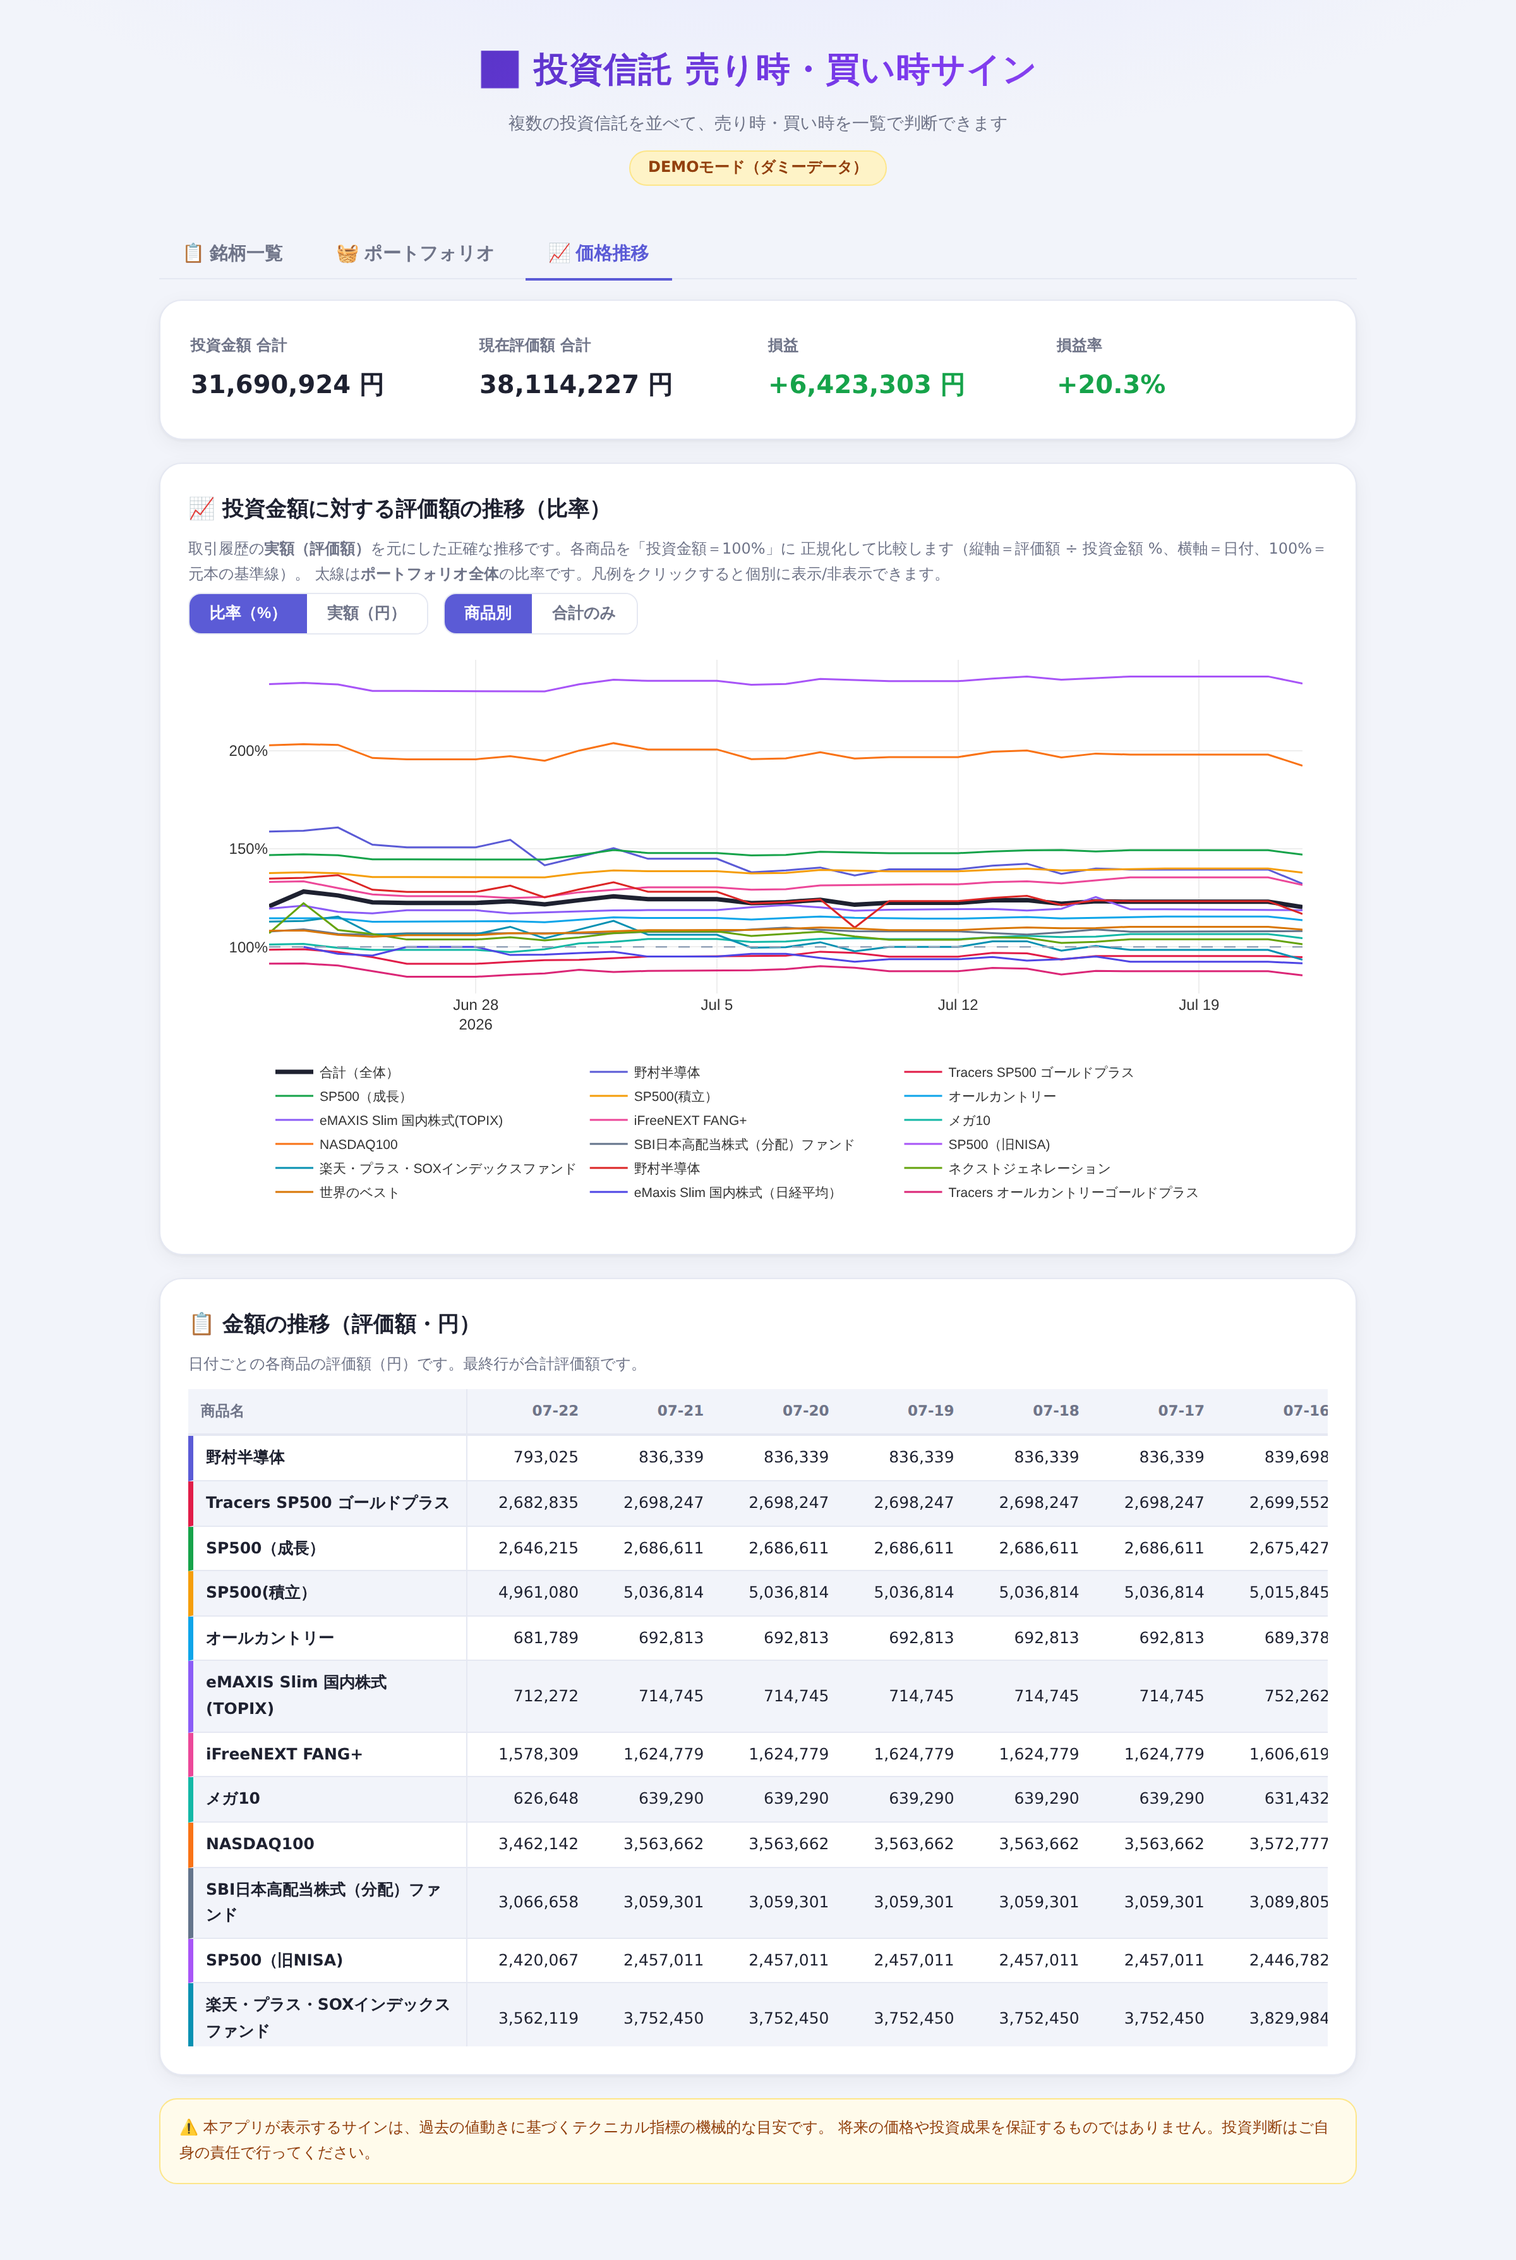
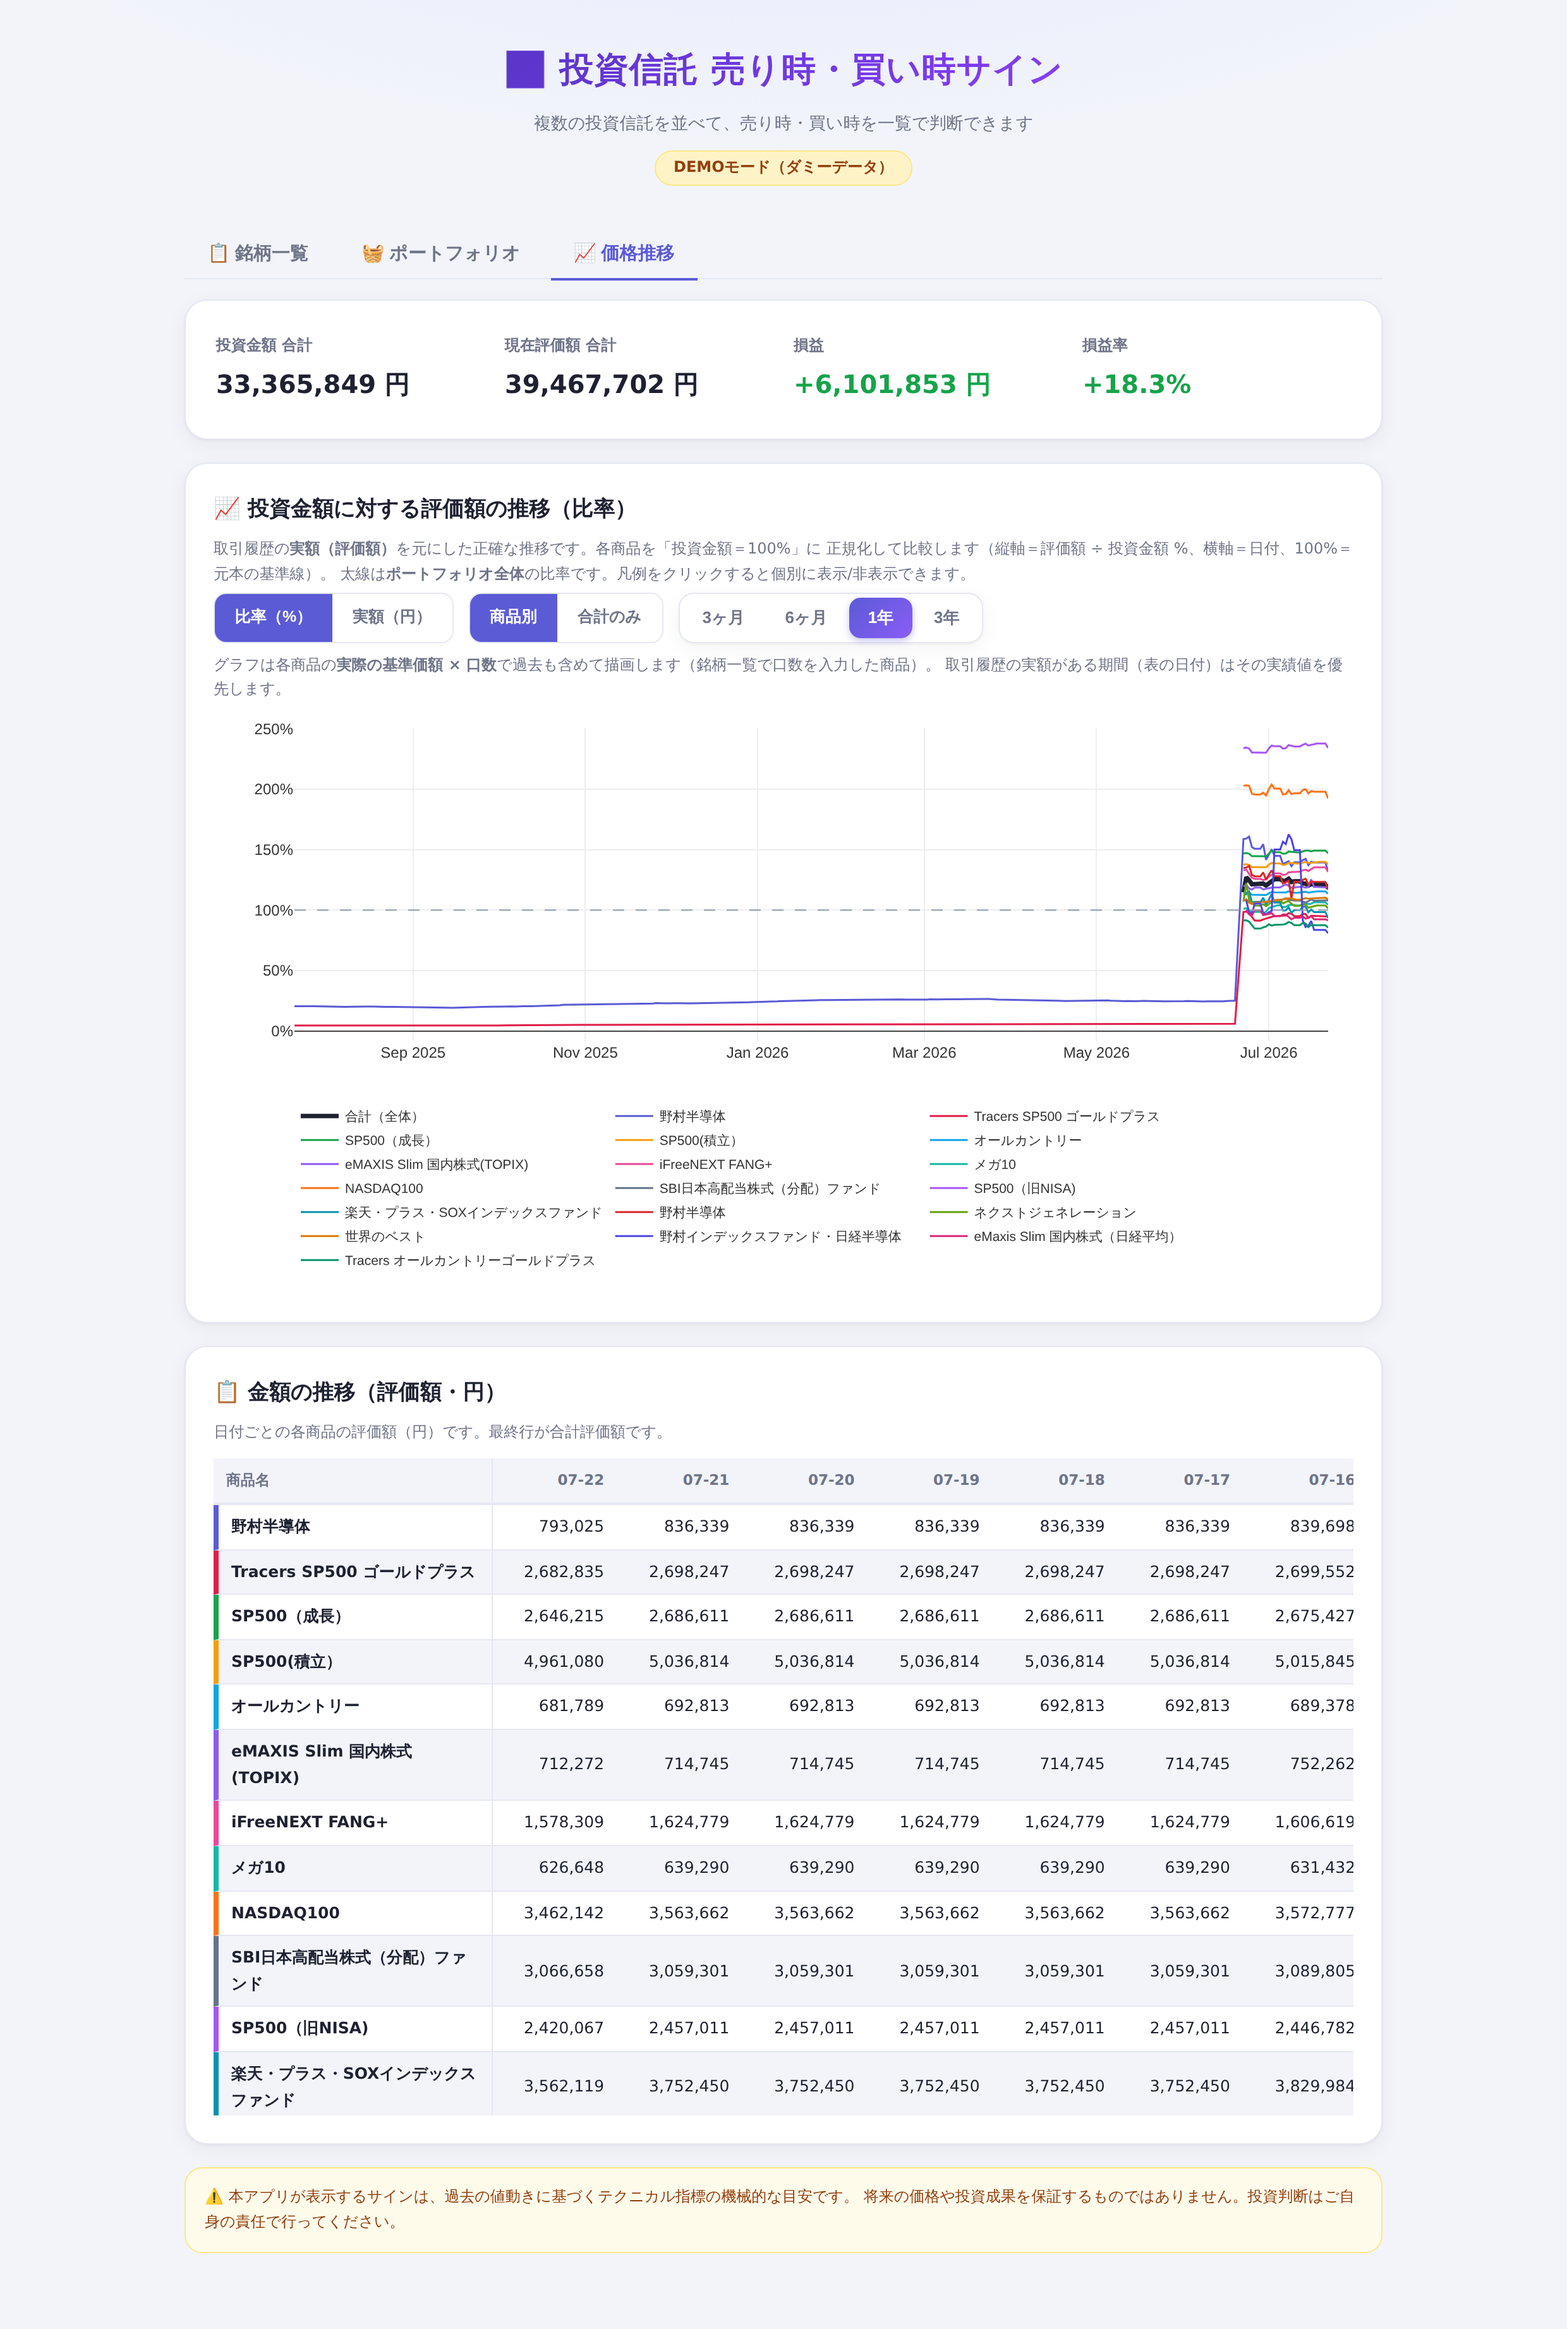
fund-timing: 価格推移に過去の価格データを反映（実基準価額×口数）＋期間切替
- /api/actual-history に range を追加。口数を入力した保有は、各ファンドの実際の
  基準価額×口数で6/22より前も含めた評価額推移をグラフに描画（過去の価格データを反映）
- 取引履歴の実額がある期間はその実績値を優先（マージ）。合計線と金額表は実額の
  記録がある日付で算出（過不足のない合計・コンパクトな表）
- 価格推移タブに期間切替（3ヶ月/6ヶ月/1年/3年）を追加、_apply_rangeに3m対応

Claude-Session: https://claude.ai/code/session_01Haqup2NBS92RVAKcMwLDHU

diff --git a/fund-timing/static/app.js b/fund-timing/static/app.js
@@ -437,7 +437,7 @@ async function loadPriceHistory() {
   st.hidden = false; st.className = "status loading"; st.textContent = "集計中… ⏳";
   let data;
   try {
-    data = await (await fetch("/api/actual-history")).json();
+    data = await (await fetch(`/api/actual-history?range=${encodeURIComponent(priceRange)}`)).json();
   } catch (e) {
     st.className = "status error"; st.textContent = "⚠ 通信エラー: " + e.message; return;
   }
@@ -446,12 +446,13 @@ async function loadPriceHistory() {
   lastActualData = data;
   renderPriceSummary(data);
   renderPriceChart(data.holdings || [], data.totals || []);
-  renderPriceTable(data.holdings || [], data.dates || [], data.totals || []);
+  renderPriceTable(data.holdings || [], data.excel_dates || data.dates || [], data.totals || []);
 }
 
 let lastActualData = null;
 let priceMode = "ratio";   // "ratio"（比率%）| "amount"（実額円）
 let lineMode = "products";  // "products"（商品別）| "total"（合計のみ）
+let priceRange = "6m";      // 価格推移グラフの期間
 
 function renderPriceSummary(data) {
   const card = $("price-summary-card");
@@ -1251,6 +1252,13 @@ $("price-mode-toggle").addEventListener("click", (e) => {
   document.querySelectorAll("#price-mode-toggle .pm-btn").forEach((x) =>
     x.classList.toggle("active", x.dataset.mode === priceMode));
   if (lastActualData) renderPriceChart(lastActualData.holdings || [], lastActualData.totals || []);
+});
+
+// 価格推移グラフの期間切替
+$("price-range").addEventListener("click", (e) => {
+  const b = e.target.closest(".range-btn"); if (!b) return;
+  document.querySelectorAll("#price-range .range-btn").forEach((x) => x.classList.remove("active"));
+  b.classList.add("active"); priceRange = b.dataset.range; loadPriceHistory();
 });
 
 // 価格推移グラフの表示切替（商品別 / 合計のみ）

diff --git a/fund-timing/templates/index.html b/fund-timing/templates/index.html
@@ -278,7 +278,17 @@
             <button class="pm-btn active" data-line="products">商品別</button>
             <button class="pm-btn" data-line="total">合計のみ</button>
           </div>
+          <div class="range-group" id="price-range">
+            <button class="range-btn" data-range="3m">3ヶ月</button>
+            <button class="range-btn active" data-range="6m">6ヶ月</button>
+            <button class="range-btn" data-range="1y">1年</button>
+            <button class="range-btn" data-range="3y">3年</button>
+          </div>
         </div>
+        <p class="hint price-note">
+           グラフは各商品の<strong>実際の基準価額 × 口数</strong>で過去も含めて描画します（銘柄一覧で口数を入力した商品）。
+          取引履歴の実額がある期間（表の日付）はその実績値を優先します。
+        </p>
         <div id="price-chart"></div>
         <p id="price-empty" class="empty-watch" hidden>
           取引履歴データがありません。

diff --git a/fund-timing/app.py b/fund-timing/app.py
@@ -167,7 +167,7 @@ def _apply_range(series: dict, range_key: str):
     n = len(dates)
     if range_key == "all" or n == 0:
         return dates, nav, assets
-    days = {"6m": 182, "1y": 365, "3y": 365 * 3, "5y": 365 * 5}.get(range_key, 365 * 3)
+    days = {"3m": 91, "6m": 182, "1y": 365, "3y": 365 * 3, "5y": 365 * 5}.get(range_key, 365 * 3)
     last = dt.date.fromisoformat(dates[-1])
     cutoff = last - dt.timedelta(days=days)
     start = 0
@@ -796,21 +796,35 @@ def api_actual_history():
     - dates: 全保有の日付の和集合（古い順）
     - totals: 日付ごとの合計評価額と、合計に対する比率
     """
+    range_key = request.args.get("range", "1y")
     watch = db.list_watchlist()
     histories = db.get_all_amount_histories()
+    # 取引履歴（実額）がある保有を対象にする
     holdings = [it for it in watch if histories.get(it["watch_id"])]
 
-    all_dates = set()
-    for it in holdings:
-        all_dates.update(histories[it["watch_id"]].keys())
-    all_dates = sorted(all_dates)
-
+    excel_dates = set()          # 実額の記録がある日付（表・合計に使う）
     result = []
     for it in holdings:
-        hist = histories[it["watch_id"]]
-        dates = sorted(hist.keys())
-        amounts = [round(hist[d]) for d in dates]
+        excel = histories[it["watch_id"]]
+        excel_dates.update(excel.keys())
         inv = float(it.get("invested") or 0)
+        units = float(it.get("units") or 0)
+        merged = {d: round(a) for d, a in excel.items()}   # 実額を優先
+        # 口数が入っていれば、実際の基準価額×口数で「過去の価格データ」を反映（実額の無い日を補完）
+        if units > 0 and (it.get("isin") or it.get("assoc_code")):
+            try:
+                kind = it.get("kind", "fund") or "fund"
+                series = _snapshot_series(it["isin"], it["assoc_code"], it["name"], kind)
+                dts, prs, _ = _apply_range(series, range_key)
+                div = 1.0 if kind != "stock" else 10000.0  # 投信:price×units/10000, 株:price×units
+                factor = units / (10000.0 if kind != "stock" else 1.0)
+                for d, p in zip(dts, prs):
+                    if p is not None and d not in merged:
+                        merged[d] = round(p * factor)
+            except Exception:
+                pass
+        dates = sorted(merged.keys())
+        amounts = [merged[d] for d in dates]
         ratio = [round(a / inv * 100, 2) for a in amounts] if inv > 0 else None
         name = it.get("label") or it.get("name") or ""
         result.append({
@@ -824,13 +838,19 @@ def api_actual_history():
             "latest_ratio": ratio[-1] if ratio else None,
         })
 
+    # グラフのX軸（全保有の日付の和集合）
+    graph_dates = sorted(set().union(*[set(h["dates"]) for h in result])) if result else []
+    excel_dates = sorted(excel_dates)
+
     total_inv = sum(float(it.get("invested") or 0) for it in holdings)
+    # 合計線は、全保有の値がそろう「実額の記録がある日付」で算出（過不足のない合計）
     totals = []
-    for d in all_dates:
+    for d in excel_dates:
         ssum = round(sum((histories[it["watch_id"]].get(d, 0) or 0) for it in holdings))
         totals.append({"date": d, "amount": ssum,
                        "ratio": round(ssum / total_inv * 100, 2) if total_inv > 0 else None})
-    return jsonify({"ok": True, "holdings": result, "dates": all_dates,
+    return jsonify({"ok": True, "holdings": result, "dates": graph_dates,
+                    "excel_dates": excel_dates, "range": range_key,
                     "total_invested": round(total_inv), "totals": totals})
 
 
